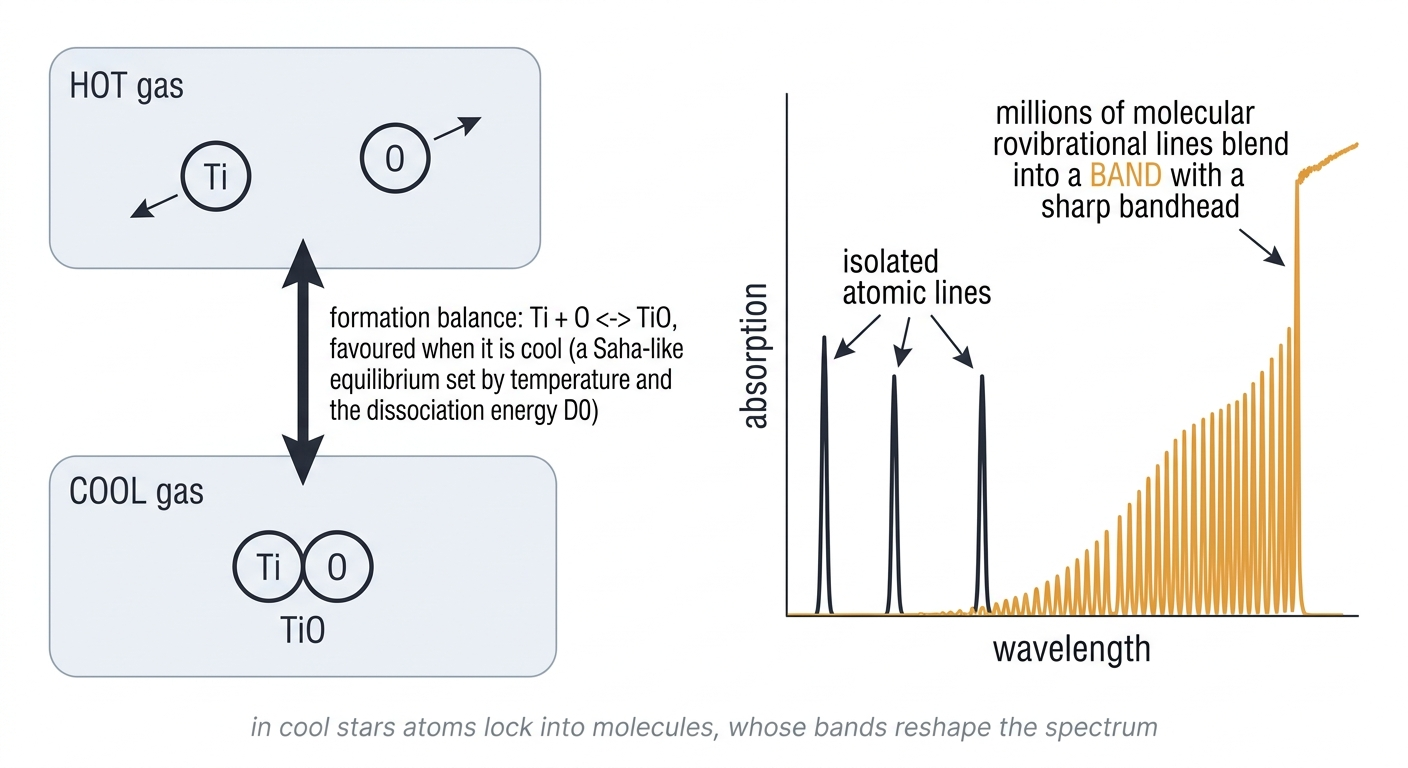
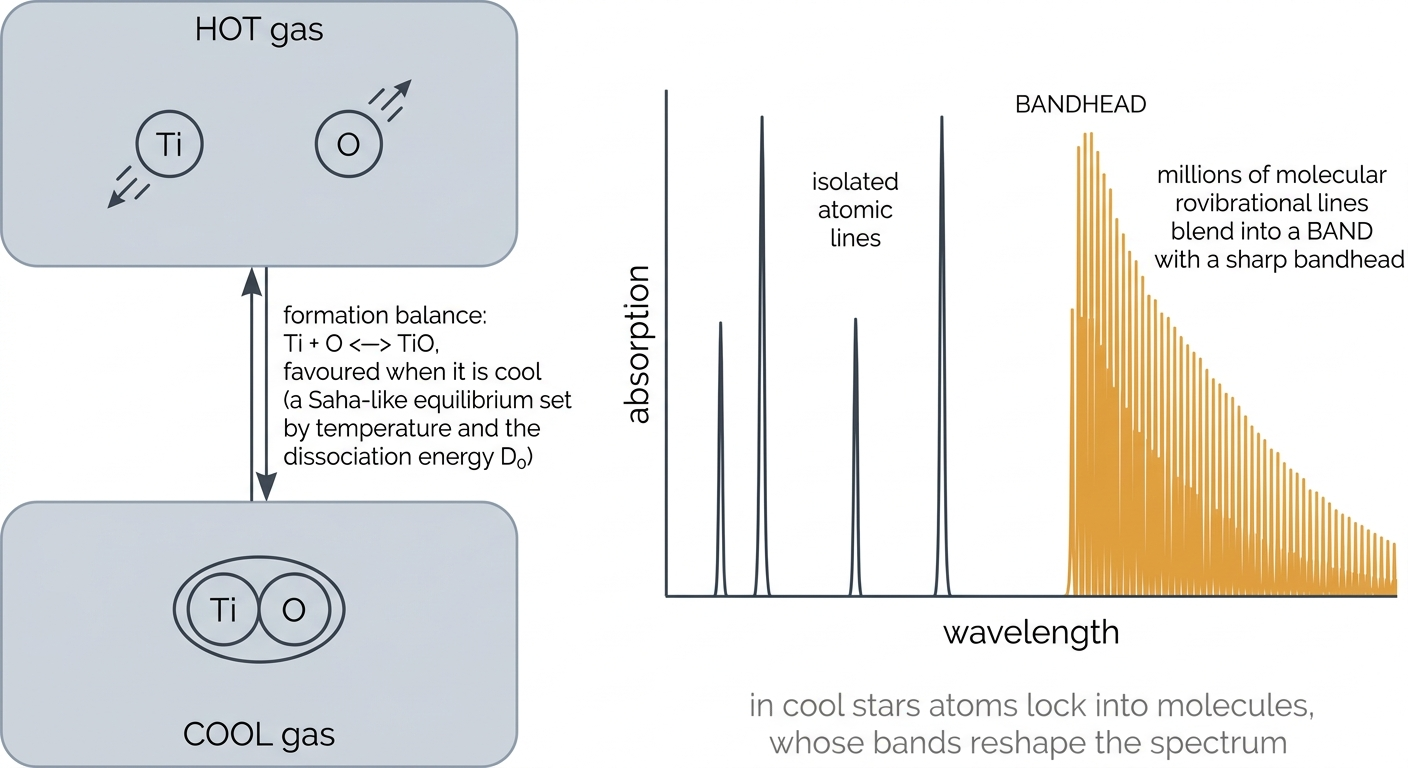
Fix s11_molecules schematic: TiO band is red-degraded (bandhead on the SHORT-wavelength edge, tailing red) — both vision critics flagged it backwards
Schematic is path-referenced, so the corrected PNG is served directly. s12_capstone confirmed correct by both critics (giant most luminous).

diff --git a/_pipeline/gen_schematics.py b/_pipeline/gen_schematics.py
@@ -122,9 +122,11 @@ FIGS = {
    "A vertical two-way arrow links the panels, labelled 'formation balance: Ti + O <-> TiO, favoured when it is cool "
    "(a Saha-like equilibrium set by temperature and the dissociation energy D0)'. RIGHT: the spectral consequence on "
    "shared axes (x-axis 'wavelength', y-axis 'absorption'). A few WIDELY-SPACED tall narrow spikes labelled 'isolated "
-   "atomic lines'; beside them a DENSE picket fence of many short lines that pile up at one edge into a sharp vertical "
-   "step, labelled 'millions of molecular rovibrational lines blend into a BAND with a sharp bandhead' — this molecular "
-   "band with its bandhead is the single amber element. Use only horizontal text, no rotated or vertical labels. "
+   "atomic lines'; beside them a DENSE picket fence of many short lines that pile up at the LEFT (SHORT-wavelength) "
+   "edge into a sharp vertical step — the BANDHEAD — with the band then degrading toward LONGER wavelengths to the "
+   "RIGHT (a red-degraded band, the way real TiO bands run: sharp head on the blue side, tailing to the red), labelled "
+   "'millions of molecular rovibrational lines blend into a BAND with a sharp bandhead' — this molecular band with its "
+   "bandhead is the single amber element. Use only horizontal text, no rotated or vertical labels. "
    "Caption 'in cool stars atoms lock into molecules, whose bands reshape the spectrum'." + S,
  "s12_capstone.png":
    "A capstone figure: ONE pipeline produces the spectra of four very different stars. LEFT, a compact vertical "
